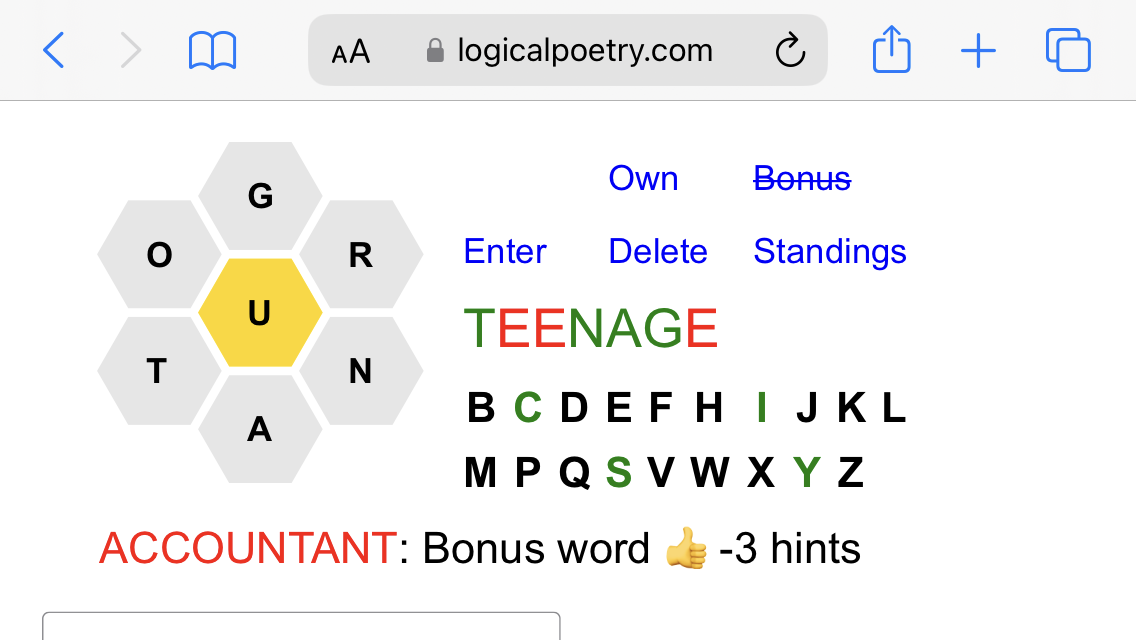
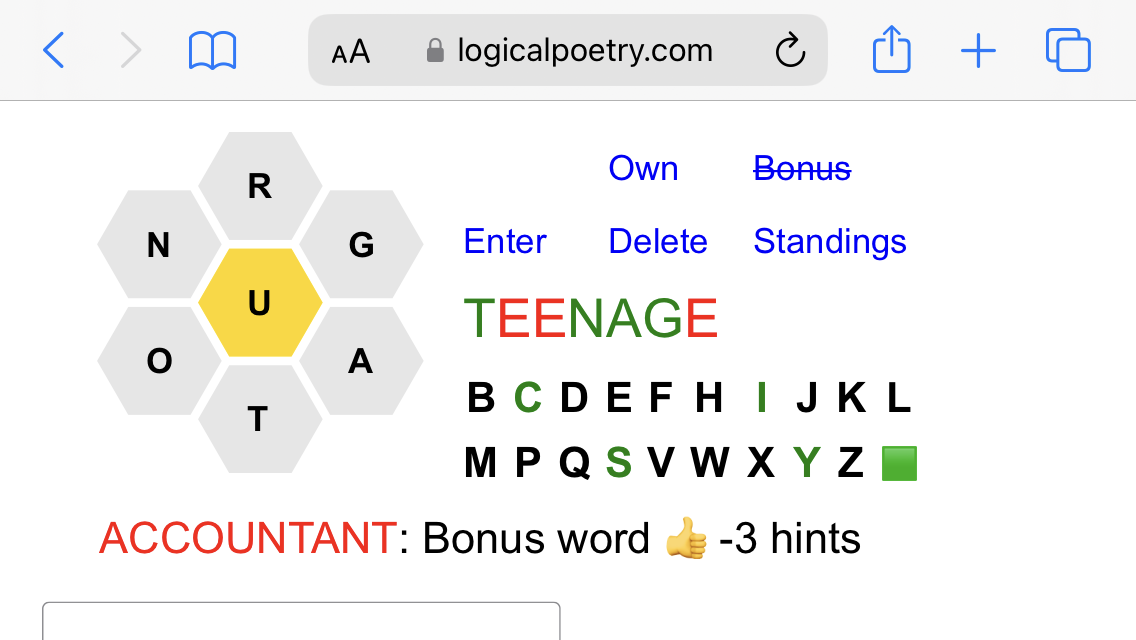
green square for space in mobile Bonus mode

diff --git a/nytbee/help.html b/nytbee/help.html
@@ -741,6 +741,9 @@ There are also links for <s>Bonus</s>, Standings, and Own:
 <li>Standings will issue the <span class=cmd>CW</span> command for you (see <a href=#competition>below</a>).
 <li>Own will issue the <span class=cmd>OW</span> command to show what words only you have found.
 </ul>
+The letter table also has a green square &#129001; at the end
+that will insert a space.  This is useful for issuing various commands.
+<p>
 When NOT on a mobile phone the <span class=cmd>BN</span> command 
 will put the 19 additional letters above the list of Bonus words.
 <p>
@@ -1577,7 +1580,7 @@ It is now added to daily at 3:00 a.m. EST by extracting the words
 from the New York Times site.  There are daily puzzles going all the way
 back to May 9, 2018.   There are now
 <!-- Do NOT mess with the next two lines - see cgi-bin/nytbee_list.pl! -->
-1884 puzzles with
+1885 puzzles with
 a total of 9646 different words!
 <p>
 Which puzzles from the large archive to play?
